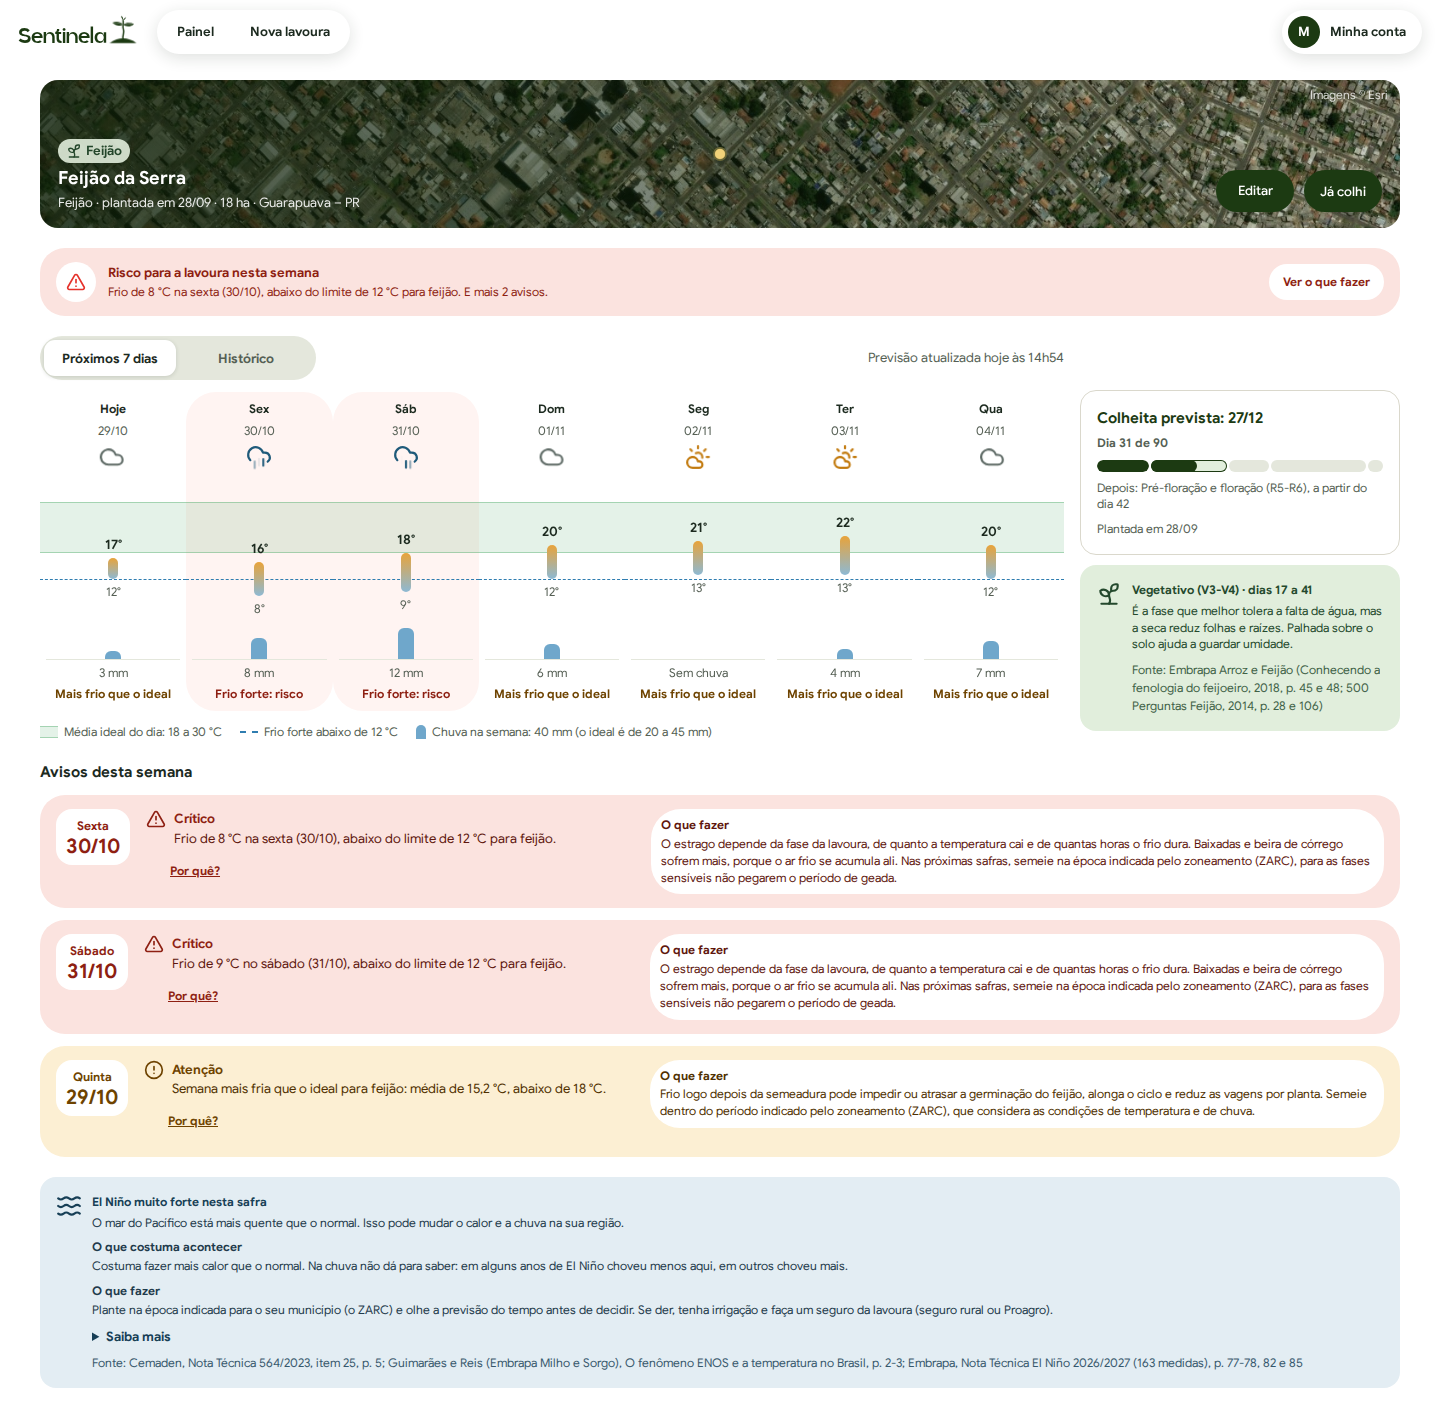
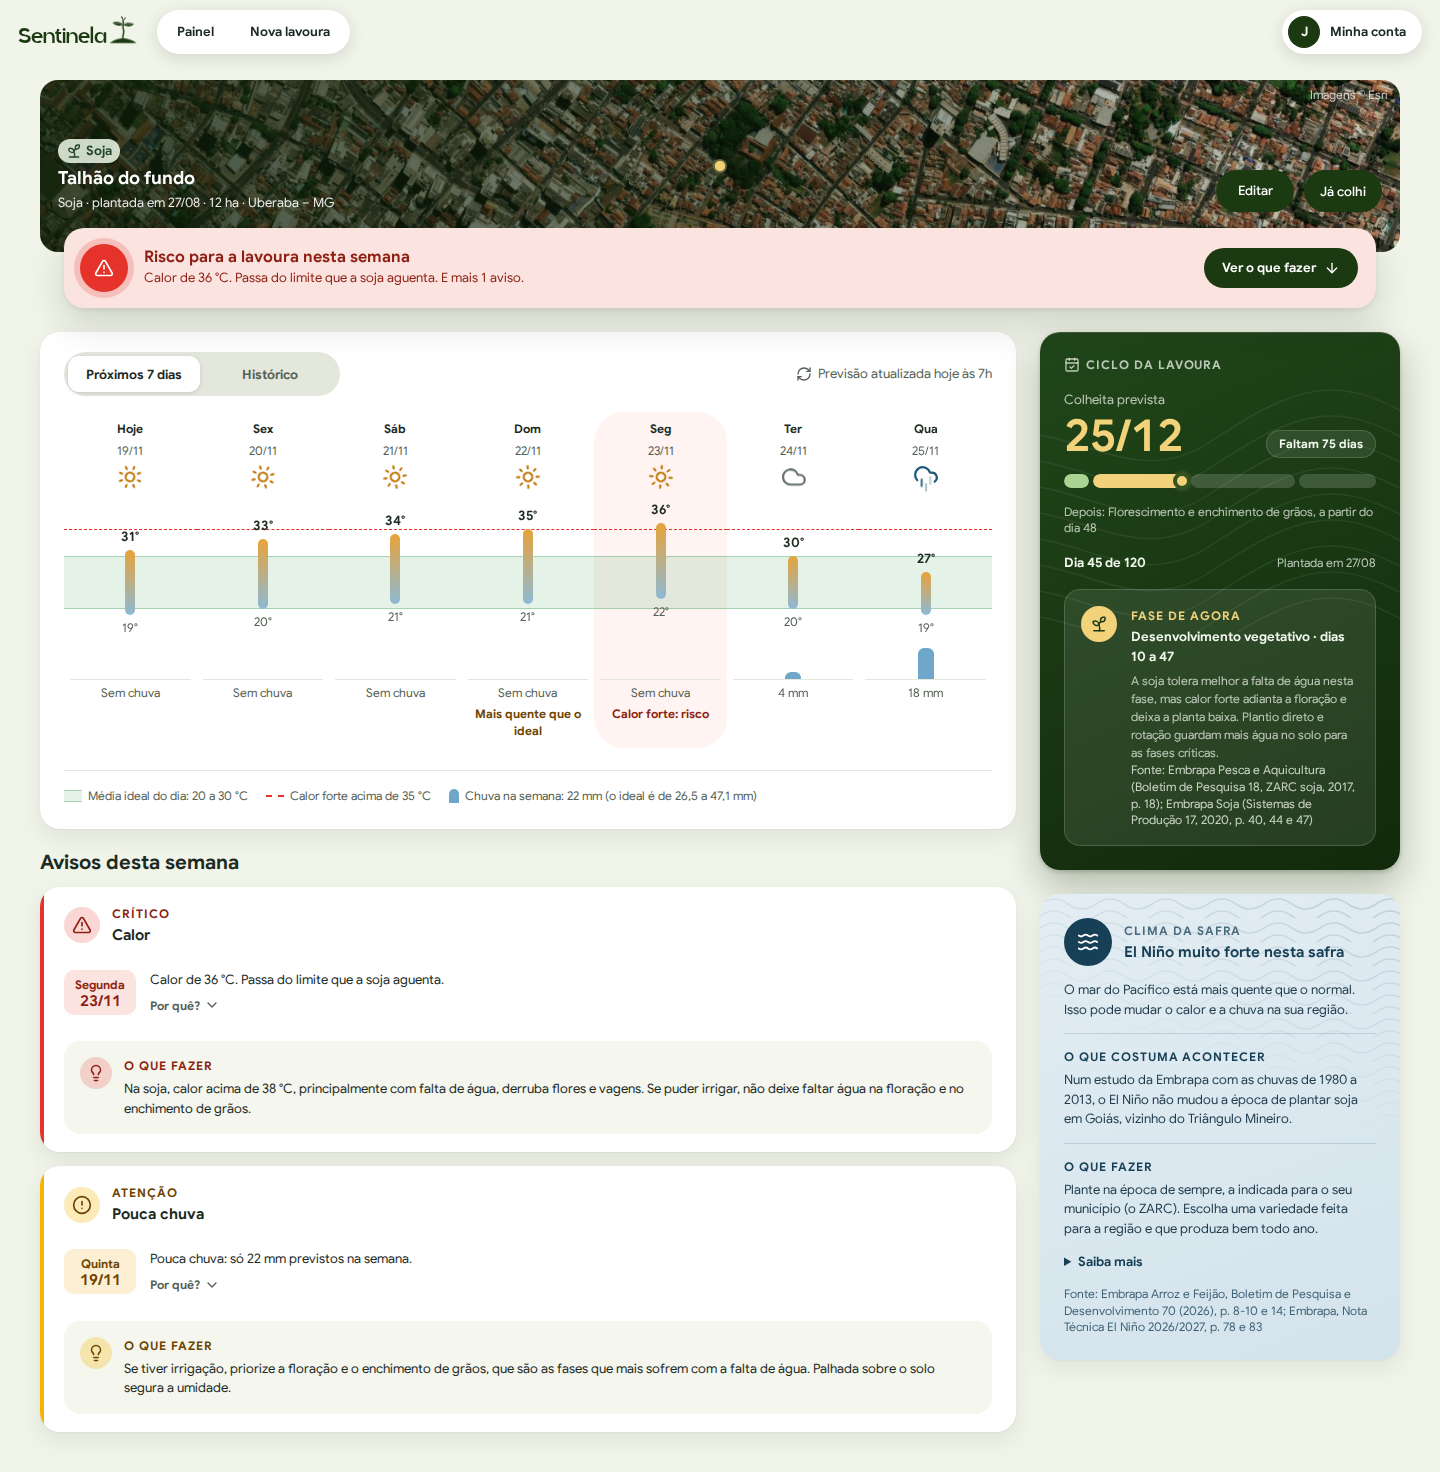
docs: README e deploy da entrega final
README: situação do projeto, tela da lavoura atual (print e descrição), escolha
de lavoura no bot, 198 + 55 testes e como rodá-los, variáveis obrigatórias da
API, limitações conhecidas, gestão do projeto e equipe.
Deploy: o bot roda no notebook da Jessica, instância sentinela-bot, e o comando
do seed da demonstração já vem com o host e a porta da Aiven.

diff --git a/README.md b/README.md
@@ -10,6 +10,7 @@ Trabalho da disciplina **Projetos Integrados 2 (VIA231)**, Uniube, 2026/2.
 Equipe: **Jessica Rodrigues** e **Larissa Miuki**.
 
 **Site no ar:** https://sentinela-sepia.vercel.app
+**Situação:** concluído e apresentado em 18/11/2026. A gestão do projeto (termo de abertura, cronograma e atas) está em [`docs/`](#gestão-do-projeto).
 
 ![Painel do Sentinela, com o mapa de satélite e as lavouras por nível de aviso](docs/imagens/03-painel.jpg)
 
@@ -38,15 +39,14 @@ O Sentinela compara a previsão de 7 dias do **ponto exato da lavoura** com o qu
 
 **Nova lavoura.** A busca de endereço leva o mapa até a cidade; o produtor arrasta o mapa até o marcador ficar em cima da lavoura, e o município aparece sozinho.
 
-![Detalhe da lavoura: satélite do lugar, resumo da semana, gráfico de 7 dias com a faixa ideal, ciclo, fase, avisos com o que fazer e El Niño](docs/imagens/05-detalhe.png)
+![Detalhe da lavoura: satélite do lugar, risco da semana, gráfico de 7 dias com a faixa ideal, ciclo da lavoura, avisos com o que fazer e El Niño](docs/imagens/05-detalhe.png)
 
-**Detalhe da lavoura.** De cima para baixo:
-- a **foto de satélite do lugar**, com o ponto onde a lavoura foi marcada;
-- o **resumo da semana**, com o aviso mais sério na cor do nível e o caminho até o que fazer;
-- o **gráfico de 7 dias**: cada dia é uma barrinha da mínima à máxima, sobre a **faixa de temperatura ideal da cultura** (verde) e o limite de calor ou de frio (tracejado). A chuva vem em barras, e a legenda mostra a chuva da semana contra o ideal. Só os dias fora do normal levam frase;
-- o **ciclo dividido nas fases da cultura**, com a fase de hoje e o que ela pede;
-- os **avisos da semana**, cada um com **O que fazer** (manejo com fonte) e **Por quê?** (o limite da cultura que foi passado). Passar o mouse num aviso acende o dia dele no gráfico;
-- o contexto do **El Niño / La Niña** da safra.
+**Detalhe da lavoura.**
+- No topo, a **foto de satélite do lugar**, com o ponto marcado, e o **risco da semana**: o aviso mais sério, na cor do nível, com o botão **Ver o que fazer**.
+- O **gráfico de 7 dias**: cada dia é uma barrinha da mínima à máxima, sobre a **faixa de temperatura ideal da cultura** (verde) e o limite de calor ou de frio (tracejado). A chuva vem em barras, e a legenda compara a chuva da semana com o ideal. Só os dias fora do normal levam frase. Na aba **Histórico**, os avisos das semanas anteriores.
+- O **ciclo da lavoura**: a colheita prevista, o ciclo dividido nas fases da cultura e a **fase de agora**, com o que ela pede e a fonte.
+- Os **avisos da semana**, agrupados por tipo: os dias em que o limite é passado, cada um com **Por quê?** (o limite da cultura e a fonte), e o **O que fazer** uma vez só para o grupo. Passar o mouse num aviso acende o dia dele no gráfico.
+- O **clima da safra**: a fase do El Niño / La Niña, o que ela costuma trazer para a região e o que fazer.
 
 | | |
 |---|---|
@@ -70,10 +70,10 @@ O site é responsivo: o painel vira um mapa com a lista de lavouras numa folha q
 Um canal de **consulta**: o produtor pergunta e o sistema responde com os dados dele. O cadastro e a edição ficam só no site.
 
 - **Reconhece a pessoa pelo número** salvo na conta, com ou sem o 9º dígito. Quando o WhatsApp esconde o número e manda só um identificador (`@lid`), o bot o guarda na conta para reconhecer a pessoa nas próximas mensagens. Quem não tem conta não vê dado de ninguém.
-- **Menu numerado:** a pessoa responde `1`, `2` ou `3`, ou escreve `menu`.
+- **Menu numerado:** a pessoa responde `1`, `2` ou `3`, ou escreve `menu`. A opção `1` lista as lavouras, e o número de uma delas traz os avisos e a previsão só dela. `sair` encerra a conversa.
 - **Manda sozinho:** boas-vindas ao cadastrar o número, aviso crítico (com o "O que fazer") e o resumo da semana, às segundas.
 - **Respeita a chave** "Receber avisos automáticos" de Minha conta.
-- A **Evolution API** (um WhatsApp Web automatizado, conectado por QR Code) roda no Docker e recebe e envia as mensagens. O backend recebe cada mensagem por webhook.
+- A **Evolution API** (um WhatsApp Web automatizado, conectado por QR Code) roda no Docker e recebe e envia as mensagens. O backend recebe cada mensagem por webhook. Ela roda no notebook da equipe: com ele desligado, o bot não responde, mas o site e a API continuam no ar.
 
 Como as respostas chegam:
 
@@ -133,7 +133,7 @@ O bot reconhece palavras-chave e números do menu; não usa modelo de linguagem.
 | Mapas | Leaflet, imagens de satélite da Esri, busca Photon e OpenStreetMap | sem chave |
 | Bot | Evolution API, no Docker, exposta pelo ngrok | notebook da equipe |
 
-**Qualidade:** o site tem 190 testes automatizados e o backend, 32, entre eles as regras de aviso, o ciclo das culturas e os textos do bot. Senhas são guardadas com BCrypt, o login usa JWT, e cada pessoa só enxerga as próprias lavouras.
+**Qualidade:** o site tem 198 testes automatizados e o backend, 55, entre eles as regras de aviso, o ciclo das culturas, o menu e os textos do bot e a escolha de lavoura pelo número. Senhas são guardadas com BCrypt, o login usa JWT, e cada pessoa só enxerga as próprias lavouras.
 
 ---
 
@@ -163,13 +163,22 @@ Para recriar do zero, apague o banco antes: `docker exec sentinela-mysql mysql -
 ### 2. API
 
 ```bash
+cp .env.example .env          # uma vez; preencha JWT_SECRET com qualquer texto longo
+set -a; source .env; set +a   # carrega as variáveis no terminal
 cd src/backend
 ./mvnw spring-boot:run -Dspring-boot.run.profiles=dev
 ```
 
 Sobe em `http://localhost:8080`. O perfil `dev` libera `POST /api/interno/rodar-rotina`, que roda na hora a rotina das 6h (previsão nova, avisos refeitos e WhatsApp), e `POST /api/interno/atualizar-enso`, que busca na NOAA a série do El Niño (a rotina automática roda todo dia 6). A documentação interativa fica em `http://localhost:8080/swagger-ui.html`.
 
-Tudo o que muda em produção vem de variáveis de ambiente, com valores de desenvolvimento como padrão (ver `.env.example`): `DB_URL`, `DB_USER`, `DB_PASSWORD`, `JWT_SECRET`, `FRONT_ORIGENS`, `FRONT_URL` e `MAIL_HOST`/`MAIL_USER`/`MAIL_PASSWORD`. Sem `MAIL_HOST`, o link de "Esqueci minha senha" aparece no log da API em vez de ir por e-mail.
+Tudo o que muda em produção vem de variáveis de ambiente, descritas no [`.env.example`](.env.example). `DB_URL`, `DB_USER`, `DB_PASSWORD` e `JWT_SECRET` são obrigatórias e não têm valor padrão, para nenhuma senha ficar no código; o `.env.example` já traz as do banco do docker-compose. As outras têm padrão de desenvolvimento: `FRONT_ORIGENS`, `FRONT_URL`, `MAIL_*` e `EVOLUTION_API_URL`/`EVOLUTION_API_KEY`. Sem `MAIL_HOST`, o link de "Esqueci minha senha" aparece no log da API em vez de ir por e-mail.
+
+### Testes
+
+```bash
+(cd src/frontend && npx vitest run)   # 198 testes, com a API de mentira
+(cd src/backend && ./mvnw test)       # 55 testes; carregue o .env antes, porque um deles sobe a aplicação inteira
+```
 
 ### 3. Front
 
@@ -209,7 +218,7 @@ Antes de apresentar, depois das 6h do dia, rode de novo `database/seeds/05_conta
 
 ## Rotas da API
 
-Todas exigem `Authorization: Bearer <token>`, menos login, cadastro, esqueci a senha e nova senha. Erros sempre no formato `{ status, mensagem, campos }`. Contrato completo no doc "Sentinela — Especificação da API".
+Todas exigem `Authorization: Bearer <token>`, menos login, cadastro, esqueci a senha e nova senha. Erros sempre no formato `{ status, mensagem, campos }`.
 
 | Método | Rota | Tela |
 |---|---|---|
@@ -299,6 +308,36 @@ cultivo   1───N  previsao_diaria    (ON DELETE CASCADE)
 `fase_enso` não tem FK com ninguém: é consultada pelo mês do plantio (ou o último mês medido, nas perenes).
 
 O diagrama ER fica em `database/er_dbdiagram.txt` (DBML, editável em [dbdiagram.io](https://dbdiagram.io)). As imagens `database/er_diagrama.png` e `.pdf` são da versão do CP-1: para atualizar, cole o DBML no dbdiagram.io e exporte de novo.
+
+---
+
+## Limitações conhecidas
+
+- **O bot depende do notebook da equipe.** A Evolution API e o ngrok rodam nele; desligado, o bot não responde. Para ficar sempre no ar, a Evolution precisaria de um servidor próprio, ou o bot teria de migrar para a API oficial do WhatsApp (Meta), que exige verificação da empresa.
+- **Os limites são por cultura**, não por cultivar nem por tipo de solo.
+- **A previsão perde precisão no fim da semana**, como toda previsão de 7 dias; os avisos dos últimos dias são os menos certos.
+- **Ainda não foi validado com produtores em campo.**
+- O diagrama ER em imagem (`database/er_diagrama.png`) é o do CP-1; o DBML em `database/er_dbdiagram.txt` está atualizado.
+
+---
+
+## Gestão do projeto
+
+| Documento | O que tem |
+|---|---|
+| [`docs/termo_abertura.md`](docs/termo_abertura.md) | Problema, escopo, critérios de aceitação, riscos e o que mudou em relação ao planejado |
+| [`docs/cronograma.md`](docs/cronograma.md) | O calendário da disciplina e o que foi entregue em cada data |
+| [`docs/atas/`](docs/atas) | Atas S01 a S06 (até o CP-2) e a ata de encerramento S07, que cobre de 01/10 até a apresentação final |
+| [`docs/deploy.md`](docs/deploy.md) | Onde cada peça está publicada e como publicar de novo |
+| [`docs/especificacao_api.md`](docs/especificacao_api.md) | Todas as rotas da API, com exemplos |
+| [GitHub Projects](https://github.com/users/odrgues/projects/2) | O quadro de tarefas do projeto |
+
+### Equipe
+
+| Integrante | Principais frentes |
+|---|---|
+| Jessica Rodrigues | Banco de dados (CP-1), site inteiro, contrato da API, culturas e orientações com fonte, publicação (Vercel, Render e Aiven), menu e textos do bot, documentação e gestão |
+| Larissa Miuki | API: cadastro de usuário (CP-2), login com JWT, nova senha, culturas e lavouras, integração com a Open-Meteo, motor de avisos, rotina das 6h, El Niño, Swagger, e a integração do bot com a Evolution API |
 
 ---
 

diff --git a/docs/deploy.md b/docs/deploy.md
@@ -7,7 +7,7 @@ Três serviços, cada um num lugar:
 | Site (React) | Vercel | https://sentinela-sepia.vercel.app |
 | API (Spring Boot) | Render, plano Starter | https://sentinela-api-38j2.onrender.com |
 | Banco (MySQL 8.4) | Aiven | `sentinela-db-sentinela-db.d.aivencloud.com:16526` |
-| Bot do WhatsApp (Evolution API) | notebook da Larissa, exposto pelo ngrok | ver a seção 4 |
+| Bot do WhatsApp (Evolution API) | notebook da Jessica, exposto pelo ngrok | ver a seção 4 |
 
 A ordem de criação importa, porque um precisa do endereço do outro: banco → site (sem API) → API (com o endereço do banco e do site) → endereço da API no site.
 
@@ -93,7 +93,7 @@ O `src/frontend/vercel.json` manda as rotas do site (como `/lavouras/1`) para o 
 
 ## 4. Bot do WhatsApp — Evolution API
 
-A Evolution API é um WhatsApp Web automatizado: um celular dedicado escaneia o QR Code e vira o número do bot. Ela roda no Docker do notebook da Larissa, e o ngrok dá a ela um endereço público.
+A Evolution API é um WhatsApp Web automatizado: um celular dedicado escaneia o QR Code e vira o número do bot. Ela roda no Docker do notebook da Jessica (até 05/11 rodava no da Larissa), e o ngrok dá a ela um endereço público.
 
 ```
 celular do produtor ⇄ WhatsApp ⇄ Evolution (notebook, porta 8082) ⇄ ngrok
@@ -102,8 +102,8 @@ celular do produtor ⇄ WhatsApp ⇄ Evolution (notebook, porta 8082) ⇄ ngrok
                               API no Render: /api/whatsapp/webhook ───────────┘
 ```
 
-1. Na Evolution, a instância (`sentinela-bot2`) manda o evento `MESSAGES_UPSERT` para `https://<api>.onrender.com/api/whatsapp/webhook`.
-2. O ngrok aponta para a Evolution: `ngrok http --url=<domínio-fixo>.ngrok-free.dev 8082`.
+1. Na Evolution, a instância `sentinela-bot` manda o evento `MESSAGES_UPSERT` para `https://sentinela-api-38j2.onrender.com/api/whatsapp/webhook`. A API responde pela mesma instância: o nome está fixo em `WhatsAppService.java`.
+2. A Evolution sobe com `cd ~/evolution && docker compose up -d`, e o ngrok aponta para ela: `ngrok http --url=<domínio-fixo>.ngrok-free.dev 8082` (o domínio fixo da conta do ngrok da Jessica, o mesmo de `EVOLUTION_API_URL`).
 3. No Render, as variáveis da API:
 
 | Variável | Valor |
@@ -111,7 +111,7 @@ celular do produtor ⇄ WhatsApp ⇄ Evolution (notebook, porta 8082) ⇄ ngrok
 | `EVOLUTION_API_URL` | o endereço do ngrok, ex.: `https://<domínio-fixo>.ngrok-free.dev`. Sem ela, a API tenta `localhost:8082` e o bot não responde |
 | `EVOLUTION_API_KEY` | a `AUTHENTICATION_API_KEY` da Evolution |
 
-O bot só funciona com o notebook da Larissa ligado, com o Docker da Evolution e o ngrok de pé. O site e a API funcionam sem ele.
+O bot só funciona com o notebook da Jessica ligado, com o Docker da Evolution e o ngrok de pé. O site e a API funcionam sem ele.
 
 ---
 
@@ -120,9 +120,11 @@ O bot só funciona com o notebook da Larissa ligado, com o Docker da Evolution e
 A rotina das 6h roda em produção e troca a previsão fixa da conta de demonstração pela previsão de verdade do dia. Para o painel mostrar os avisos da demonstração, rode de novo o seed **depois das 6h** daquele dia: o `05_conta_demonstracao.sql` (conta `sentinela.uniube@gmail.com`, 12 lavouras, que precisa ter sido criada pelo site antes):
 
 ```bash
-mysql -h <host>.aivencloud.com -P <porta> -u avnadmin -p --ssl-mode=REQUIRED --default-character-set=utf8mb4 \
+mysql -h sentinela-db-sentinela-db.d.aivencloud.com -P 16526 -u avnadmin -p --ssl-mode=REQUIRED --default-character-set=utf8mb4 \
   --init-command="SET time_zone='-03:00'" sentinela < database/seeds/05_conta_demonstracao.sql
 ```
+
+O `-p` pede a senha do `avnadmin` na hora (no painel da Aiven, em *Connection information*). Se terminar sem mensagem, deu certo. O seed só troca a previsão e os avisos das 12 lavouras da demonstração, pelo nome; outras lavouras da conta ficam como estão.
 
 Se preferirem mostrar o clima real, não precisa rodar nada: os avisos da conta de demonstração passam a ser os da previsão do dia.
 
